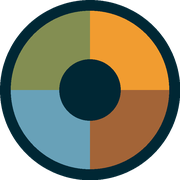
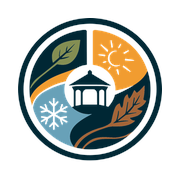
Add files via upload

diff --git a/assets/styles.css b/assets/styles.css
@@ -135,16 +135,27 @@ a:hover{ color:var(--tint-ink); }
   display:flex; align-items:center; gap:11px;
   text-decoration:none; flex:0 0 auto; padding:8px 0;
 }
-.brand svg{ width:38px; height:38px; display:block; flex:0 0 auto; }
-.brand-text{
-  font-family:'Fraunces',Georgia,serif;
-  font-size:1.02rem; font-weight:600; line-height:1.1;
-  letter-spacing:.005em;
+/* The roundel keeps its own white plate wherever it sits on navy. */
+.mark{
+  display:flex; align-items:center; justify-content:center;
+  background:#fff; border-radius:50%; padding:5px;
+  flex:0 0 auto;
 }
+.mark img{ width:38px; height:38px; display:block; }
+.mark.big{ padding:7px; }
+.mark.big img{ width:46px; height:46px; }
+
+.wordmark{ display:block; width:178px; height:auto; }
+
+.brand-text{ display:block; }
 .brand-text span{
   display:block; font-family:'Public Sans',sans-serif;
-  font-size:.68rem; font-weight:500; color:#9FB6BE;
-  letter-spacing:.04em; margin-top:2px;
+  font-size:.66rem; font-weight:500; color:#9FB6BE;
+  letter-spacing:.04em; margin-top:5px;
+}
+@media (max-width:420px){
+  .wordmark{ width:140px; }
+  .brand-text span{ display:none; }
 }
 
 .menu{ margin-left:auto; display:flex; align-items:center; gap:2px; }
@@ -469,7 +480,7 @@ details.faq .ans p{ margin:0; }
 .foot ul{ list-style:none; margin:0; padding:0; }
 .foot li{ margin-bottom:8px; }
 .foot p{ max-width:38ch; }
-.foot-brand svg{ width:44px; height:44px; margin-bottom:14px; }
+.foot-brand .mark{ display:inline-flex; margin-bottom:16px; }
 .foot-legal{
   margin-top:34px; padding-top:20px; border-top:1px solid rgba(255,255,255,.14);
   font-size:.85rem; color:#8FA8B1;

diff --git a/tools/make-social-card.py b/tools/make-social-card.py
@@ -8,11 +8,17 @@ Run it only if the wording, the colours, or the logo change.
     pip install pillow
     python3 tools/make-social-card.py
 
-It needs the two brand fonts in tools/fonts/. Both are free from Google Fonts:
-    Fraunces      https://fonts.google.com/specimen/Fraunces
-    Public Sans   https://fonts.google.com/specimen/Public+Sans
-Download the variable .ttf of each and save them as fraunces.ttf and
-publicsans.ttf.
+It needs two things alongside it:
+
+  tools/mark-1024.png   the chamber roundel on a transparent background.
+                        Committed. Re-export from assets/mark.svg if the
+                        logo ever changes.
+
+  tools/fonts/          the two brand fonts, free from Google Fonts:
+                        Fraunces     https://fonts.google.com/specimen/Fraunces
+                        Public Sans  https://fonts.google.com/specimen/Public+Sans
+                        Save the variable .ttf of each as fraunces.ttf and
+                        publicsans.ttf.
 """
 
 import os
@@ -47,21 +53,25 @@ def public_sans(size, weight=500):
     return f
 
 
-def roundel(size):
-    """The four seasons mark. Drawn at 4x and shrunk so the edges are clean."""
+def roundel(size, plate=False):
+    """The real chamber mark. On navy it needs a white plate behind it,
+    because the roundel's own outer ring is navy and would disappear."""
+    mark = Image.open(os.path.join(HERE, "mark-1024.png")).convert("RGBA")
+
+    if not plate:
+        return mark.resize((size, size), Image.LANCZOS)
+
+    inner = int(size * 0.80)
+    mark = mark.resize((inner, inner), Image.LANCZOS)
+
     s = size * 4
-    img = Image.new("RGBA", (s, s), (0, 0, 0, 0))
-    d = ImageDraw.Draw(img)
-    d.ellipse([0, 0, s, s], fill=NAVY)
+    plate_img = Image.new("RGBA", (s, s), (0, 0, 0, 0))
+    ImageDraw.Draw(plate_img).ellipse([0, 0, s, s], fill=(255, 255, 255, 255))
+    plate_img = plate_img.resize((size, size), Image.LANCZOS)
 
-    inset = s * 0.06
-    box = [inset, inset, s - inset, s - inset]
-    for start, colour in ((270, SUN), (0, AUTUMN), (90, WINTER), (180, SPRING)):
-        d.pieslice(box, start, start + 90, fill=colour)
-
-    hole = s * 0.34
-    d.ellipse([(s - hole) / 2, (s - hole) / 2, (s + hole) / 2, (s + hole) / 2], fill=NAVY)
-    return img.resize((size, size), Image.LANCZOS)
+    off = (size - inner) // 2
+    plate_img.paste(mark, (off, off), mark)
+    return plate_img
 
 
 def wrap(draw, text, font, width):
@@ -84,13 +94,13 @@ def social_card():
     d = ImageDraw.Draw(img)
 
     pad = 78
-    mark = roundel(104)
+    mark = roundel(116, plate=True)
     img.paste(mark, (pad, pad), mark)
 
     title_font = fraunces(74, weight=600, opsz=144)
     sub_font = public_sans(29, weight=400)
 
-    y = pad + 104 + 54
+    y = pad + 116 + 48
     for line in wrap(d, TITLE, title_font, W - pad * 2):
         d.text((pad, y), line, font=title_font, fill=(255, 255, 255))
         y += 84
@@ -110,13 +120,15 @@ def social_card():
 
 
 def icons():
+    """Icons sit on a white plate. Browser tab bars and phone home screens
+    are usually light, and the mark's navy ring vanishes against dark ones."""
     for size, name in ((180, "apple-touch-icon.png"), (32, "favicon-32.png")):
-        roundel(size).save(os.path.join(OUT, name), optimize=True)
+        roundel(size, plate=True).save(os.path.join(OUT, name), optimize=True)
         print(f"assets/{name}")
 
     # A real .ico so old browsers and Windows pinning behave.
-    roundel(64).save(os.path.join(OUT, "favicon.ico"),
-                     sizes=[(16, 16), (32, 32), (48, 48)])
+    roundel(64, plate=True).save(os.path.join(OUT, "favicon.ico"),
+                                 sizes=[(16, 16), (32, 32), (48, 48)])
     print("assets/favicon.ico")
 
 

diff --git a/README.md b/README.md
@@ -104,11 +104,29 @@ Node 18 or newer. No dependencies to install.
 
 **Empty the job board and the news list, or fill them.** The three jobs and three posts in there are examples. A job board with fake postings is worse than an empty one.
 
-**Drop in the real logos.** The roundel in `build.mjs` is a stand-in built from the brand colours. The clean SVGs from the Policy Center repo should replace it.
-
 **Point the Policy Center link at the live address.** `SITE.policyCenterUrl`.
 
 **Decide about slugs.** A member's address is `/directory/their-slug/`. Once it is public and indexed, changing a slug breaks every link to it. Get them right the first time, or plan redirects.
+
+---
+
+## The logo files
+
+`assets/` holds five, and which one to use is not arbitrary.
+
+| File | Use it for |
+| --- | --- |
+| `mark.svg` | The roundel alone, full colour. Header, footer, icons. |
+| `wordmark-navy.svg` | The type alone, for light backgrounds |
+| `wordmark-white.svg` | The type alone, for navy |
+| `logo-horizontal.svg` | The full lockup. Print, letterhead, anything sent out. |
+| `logo-stacked.svg` | The full lockup, taller. Square spaces, social avatars. |
+
+**Why the mark and the type are separate files.** The roundel cannot be recoloured for a dark background. Its outer ring is navy and its gazebo is white, so inverting one destroys the other. On navy the roundel sits on a white plate at full colour, which is what the `.mark` class does. The wordmark is plain type and inverts cleanly, hence two colour versions of it and only one of the mark.
+
+**They are `<img>` references, not inline SVG.** The artwork is about 38KB of path data. Inlining it into all 31 pages would add well over a megabyte of duplicated markup and stop it being cached.
+
+The originals from Illustrator carried around 8KB each of C2PA provenance metadata, which has been stripped. If you re-export, strip it again or the files roughly double.
 
 ---
 
